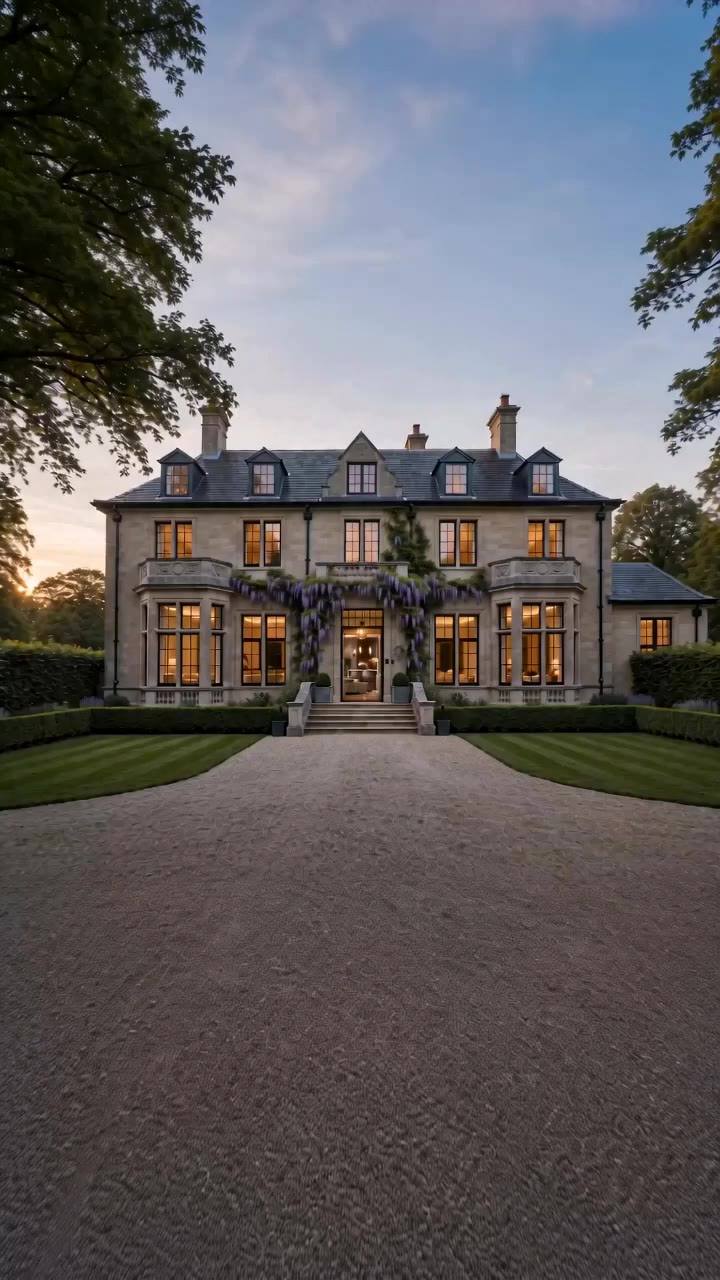
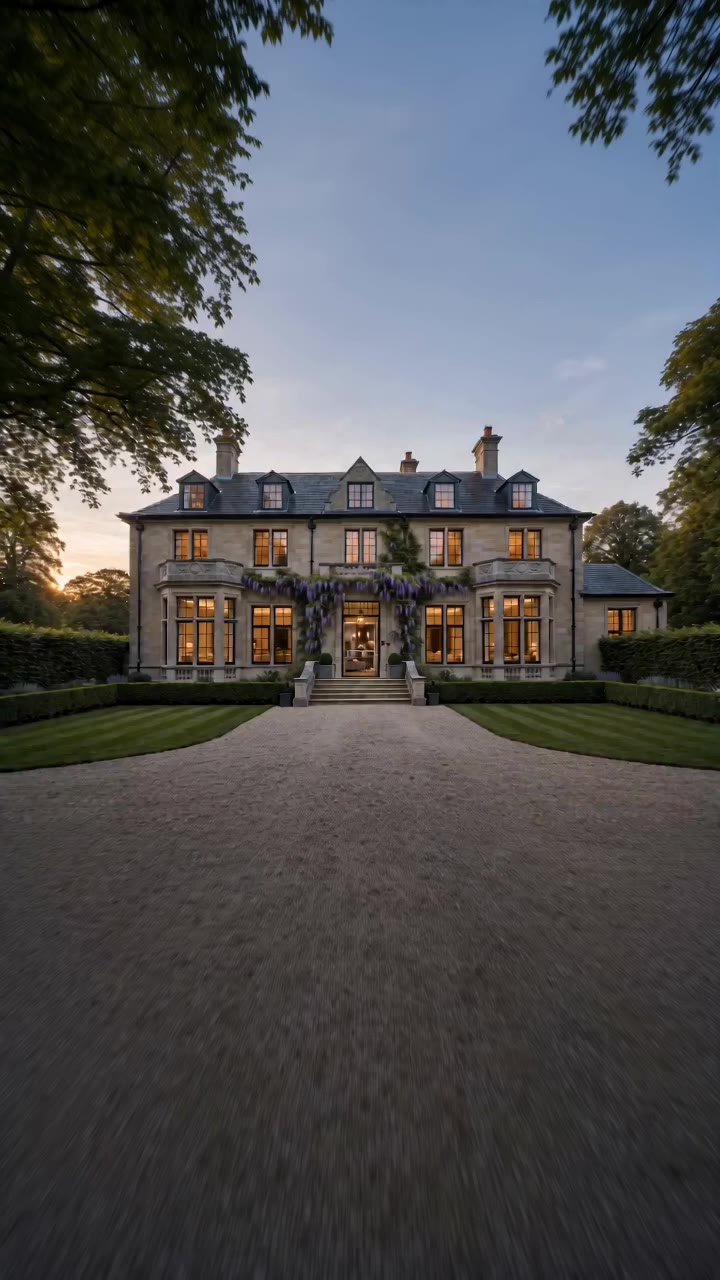
Mobile hero v3: enclosed hall journey, kitchen glass closed throughout
The previous take still allowed a straight sightline from the front
steps through the house to the open-air garden. New take: through the
front door only the panelled hall is visible, the hall bends before
reaching the kitchen, and the kitchen's glass doors stay closed with
the garden behind glass - matching a new AI-edited finale photo
(res-kitchen-ascot-hero.jpg; the portfolio grid keeps the original).
Mobile frames now ship under a versioned directory (frames-mobile-v3)
per the deploy-safety notes so old and new sets can never mix.

diff --git a/index.html b/index.html
@@ -57,7 +57,7 @@
     <link rel="stylesheet" href="css/effects.css?v=7">
     <link rel="stylesheet" href="css/hero-journey.css?v=7">
     <link rel="preload" as="image" href="images/hero/poster.jpg?v=2" fetchpriority="high" media="(orientation: landscape)">
-    <link rel="preload" as="image" href="images/hero/poster-mobile.jpg?v=3" fetchpriority="high" media="(orientation: portrait)">
+    <link rel="preload" as="image" href="images/hero/poster-mobile.jpg?v=4" fetchpriority="high" media="(orientation: portrait)">
 
     <!-- Schema Markup -->
     <script type="application/ld+json">
@@ -162,14 +162,14 @@
                     <img src="images/showhome-living-hero.jpg" alt="" decoding="async">
                 </div>
                 <div class="hero-layer">
-                    <img src="images/res-kitchen-ascot.jpg" alt="" loading="lazy" decoding="async">
+                    <img src="images/res-kitchen-ascot-hero.jpg" alt="" loading="lazy" decoding="async">
                 </div>
                 <div class="hero-layer">
                     <img src="images/res-cinema-room.jpg" alt="" loading="lazy" decoding="async">
                 </div>
                 <canvas class="hero-canvas" id="heroCanvas" hidden></canvas>
                 <picture class="hero-poster" id="heroPoster">
-                    <source media="(orientation: portrait)" srcset="images/hero/poster-mobile.jpg?v=3">
+                    <source media="(orientation: portrait)" srcset="images/hero/poster-mobile.jpg?v=4">
                     <img src="images/hero/poster.jpg?v=2" alt="" fetchpriority="high" decoding="async" onerror="this.parentNode.hidden=true">
                 </picture>
                 <div class="hero-overlay"></div>